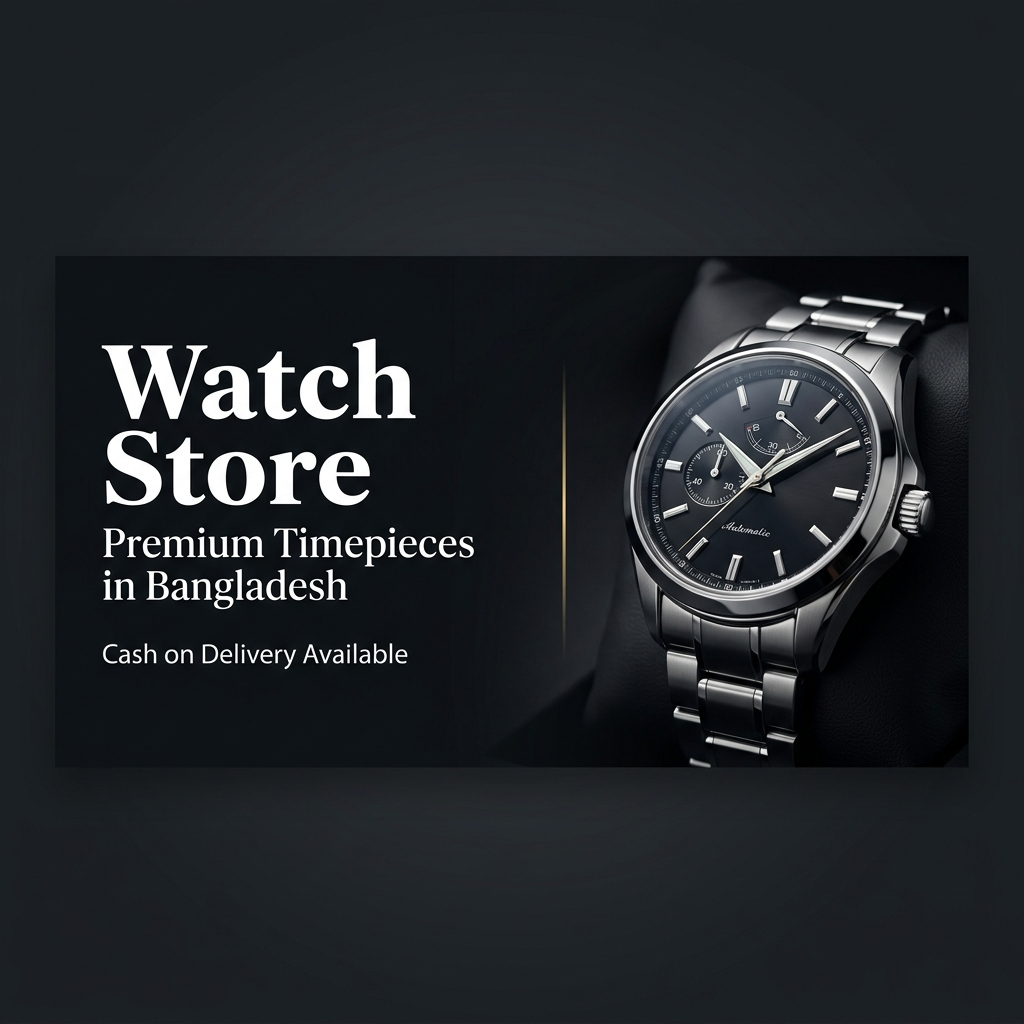
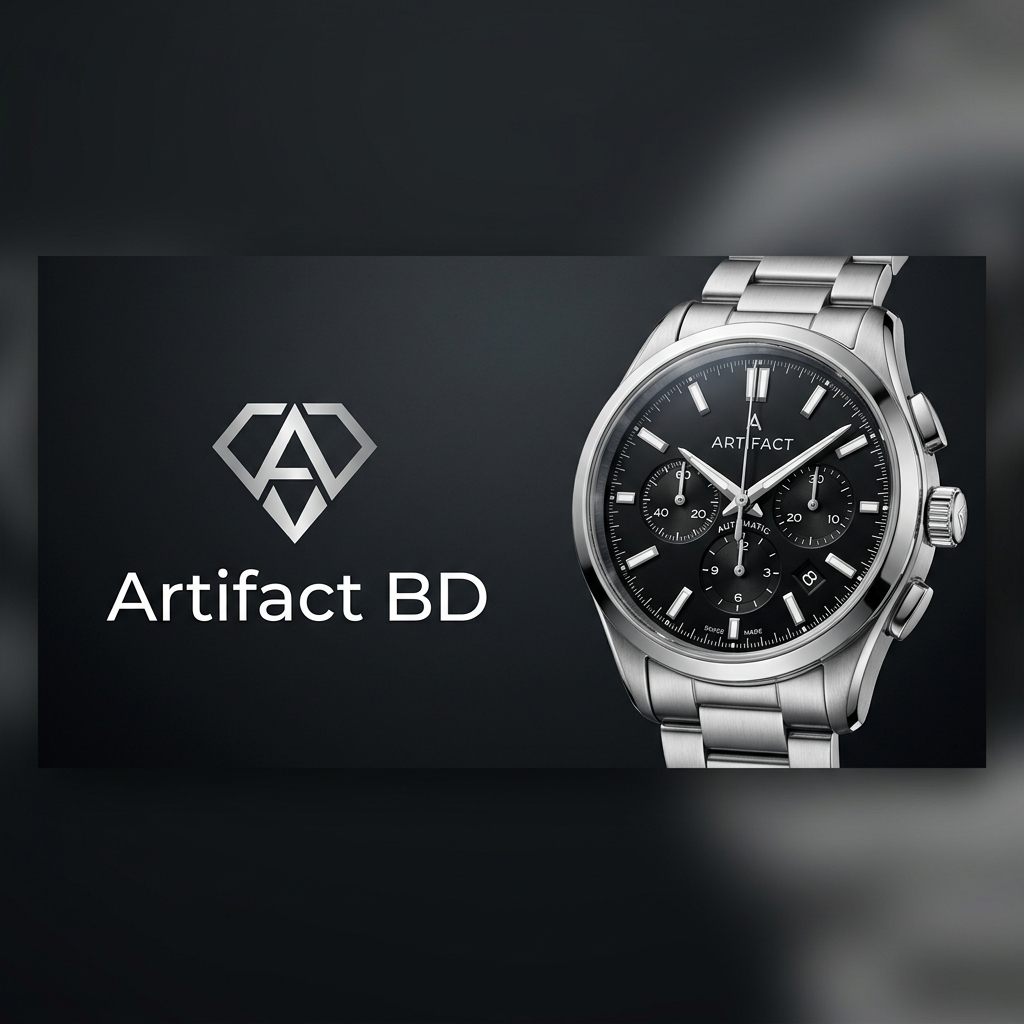
fix: resolve Round 3 SEO, domain configuration, dynamic metadata, JSON-LD schema, and layout bugs

diff --git a/frontend/src/customer/pages/ProductDetail.jsx b/frontend/src/customer/pages/ProductDetail.jsx
@@ -30,6 +30,8 @@ const ProductDetail = () => {
         metaDesc.setAttribute('content',
           'Shop premium watches in Bangladesh. Cash on delivery available. Only at Artifact BD.');
       }
+      const schema = document.getElementById('product-schema');
+      if (schema) schema.remove();
     };
   }, []);
 
@@ -54,6 +56,40 @@ const ProductDetail = () => {
       setMeta('property', 'og:description', desc);
       if (product.images?.[0]) setMeta('property', 'og:image', resolveImg(product.images[0]));
       setMeta('property', 'og:type', 'product');
+      setMeta('property', 'og:url', window.location.href);
+
+      // ── Inject JSON-LD Product Schema ──
+      let schemaScript = document.getElementById('product-schema');
+      if (!schemaScript) {
+        schemaScript = document.createElement('script');
+        schemaScript.type = 'application/ld+json';
+        schemaScript.id = 'product-schema';
+        document.head.appendChild(schemaScript);
+      }
+      schemaScript.textContent = JSON.stringify({
+        "@context": "https://schema.org/",
+        "@type": "Product",
+        "name": product.name,
+        "image": product.images?.map(img => resolveImg(img)) || [],
+        "description": product.description || product.shortDescription || '',
+        "brand": {
+          "@type": "Brand",
+          "name": product.brand || "Artifact BD"
+        },
+        "offers": {
+          "@type": "Offer",
+          "url": window.location.href,
+          "priceCurrency": "BDT",
+          "price": product.price,
+          "availability": product.stock > 0
+            ? "https://schema.org/InStock"
+            : "https://schema.org/OutOfStock",
+          "seller": {
+            "@type": "Organization",
+            "name": "Artifact BD"
+          }
+        }
+      });
     }
   }, [product]);
 
@@ -359,63 +395,65 @@ const ProductDetail = () => {
 
       {/* ── RELATED PRODUCTS — Step 45: with prev/next arrows ── */}
       {relatedProducts.length > 0 && (
-        <div className="related-products-section">
-          <div className="related-header">
-            <div>
-              <h2>You May Also Like</h2>
-              <p className="related-subtitle">More from the same collection, handpicked for you.</p>
+        <div className="product-detail-inner">
+          <div className="related-products-section" style={{ paddingLeft: 0, paddingRight: 0 }}>
+            <div className="related-header">
+              <div>
+                <h2>You May Also Like</h2>
+                <p className="related-subtitle">More from the same collection, handpicked for you.</p>
+              </div>
+              <div className="slider-nav-buttons">
+                <button className="slider-nav-btn" onClick={() => scrollRelated(-1)} aria-label="Previous">
+                  <ChevronLeft size={18} />
+                </button>
+                <button className="slider-nav-btn" onClick={() => scrollRelated(1)} aria-label="Next">
+                  <ChevronRight size={18} />
+                </button>
+              </div>
             </div>
-            <div className="slider-nav-buttons">
-              <button className="slider-nav-btn" onClick={() => scrollRelated(-1)} aria-label="Previous">
-                <ChevronLeft size={18} />
-              </button>
-              <button className="slider-nav-btn" onClick={() => scrollRelated(1)} aria-label="Next">
-                <ChevronRight size={18} />
-              </button>
-            </div>
-          </div>
 
-          <div className="related-slider" ref={relatedSliderRef}>
-            {relatedProducts.map(rel => (
-              <div className="related-card" key={rel._id}>
-                <Link to={`/product/${rel._id}`} className="related-card-link">
-                  <div className="related-img-wrap">
-                    {rel.images?.[0] ? (
-                      <img
-                        src={resolveImg(rel.images[0])}
-                        alt={rel.name}
-                      />
-                    ) : (
-                      <div className="img-placeholder">{(rel.brand || 'W').charAt(0)}</div>
-                    )}
-                    {rel.oldPrice > rel.price && (
-                      <div className="related-discount-badge">
-                        ৳{(rel.oldPrice - rel.price).toLocaleString()} OFF
-                      </div>
-                    )}
-                  </div>
-                  <div className="related-info">
-                    <h3>{rel.name}</h3>
-                    <div className="related-price-row">
-                      <span className="related-price">৳{rel.price.toLocaleString()}</span>
+            <div className="related-slider" ref={relatedSliderRef}>
+              {relatedProducts.map(rel => (
+                <div className="related-card" key={rel._id}>
+                  <Link to={`/product/${rel._id}`} className="related-card-link">
+                    <div className="related-img-wrap">
+                      {rel.images?.[0] ? (
+                        <img
+                          src={resolveImg(rel.images[0])}
+                          alt={rel.name}
+                        />
+                      ) : (
+                        <div className="img-placeholder">{(rel.brand || 'W').charAt(0)}</div>
+                      )}
                       {rel.oldPrice > rel.price && (
-                        <span className="related-old-price">৳{rel.oldPrice.toLocaleString()}</span>
+                        <div className="related-discount-badge">
+                          ৳{(rel.oldPrice - rel.price).toLocaleString()} OFF
+                        </div>
                       )}
                     </div>
+                    <div className="related-info">
+                      <h3>{rel.name}</h3>
+                      <div className="related-price-row">
+                        <span className="related-price">৳{rel.price.toLocaleString()}</span>
+                        {rel.oldPrice > rel.price && (
+                          <span className="related-old-price">৳{rel.oldPrice.toLocaleString()}</span>
+                        )}
+                      </div>
+                    </div>
+                  </Link>
+                  <div className="related-card-actions">
+                    <Link to={`/product/${rel._id}`} className="btn-related-buy">Buy Now</Link>
+                    <button
+                      className="btn-related-cart"
+                      onClick={() => addToCart(rel, 1)}
+                      aria-label="Add to cart"
+                    >
+                      <ShoppingBag size={15} />
+                    </button>
                   </div>
-                </Link>
-                <div className="related-card-actions">
-                  <Link to={`/product/${rel._id}`} className="btn-related-buy">Buy Now</Link>
-                  <button
-                    className="btn-related-cart"
-                    onClick={() => addToCart(rel, 1)}
-                    aria-label="Add to cart"
-                  >
-                    <ShoppingBag size={15} />
-                  </button>
                 </div>
-              </div>
-            ))}
+              ))}
+            </div>
           </div>
         </div>
       )}